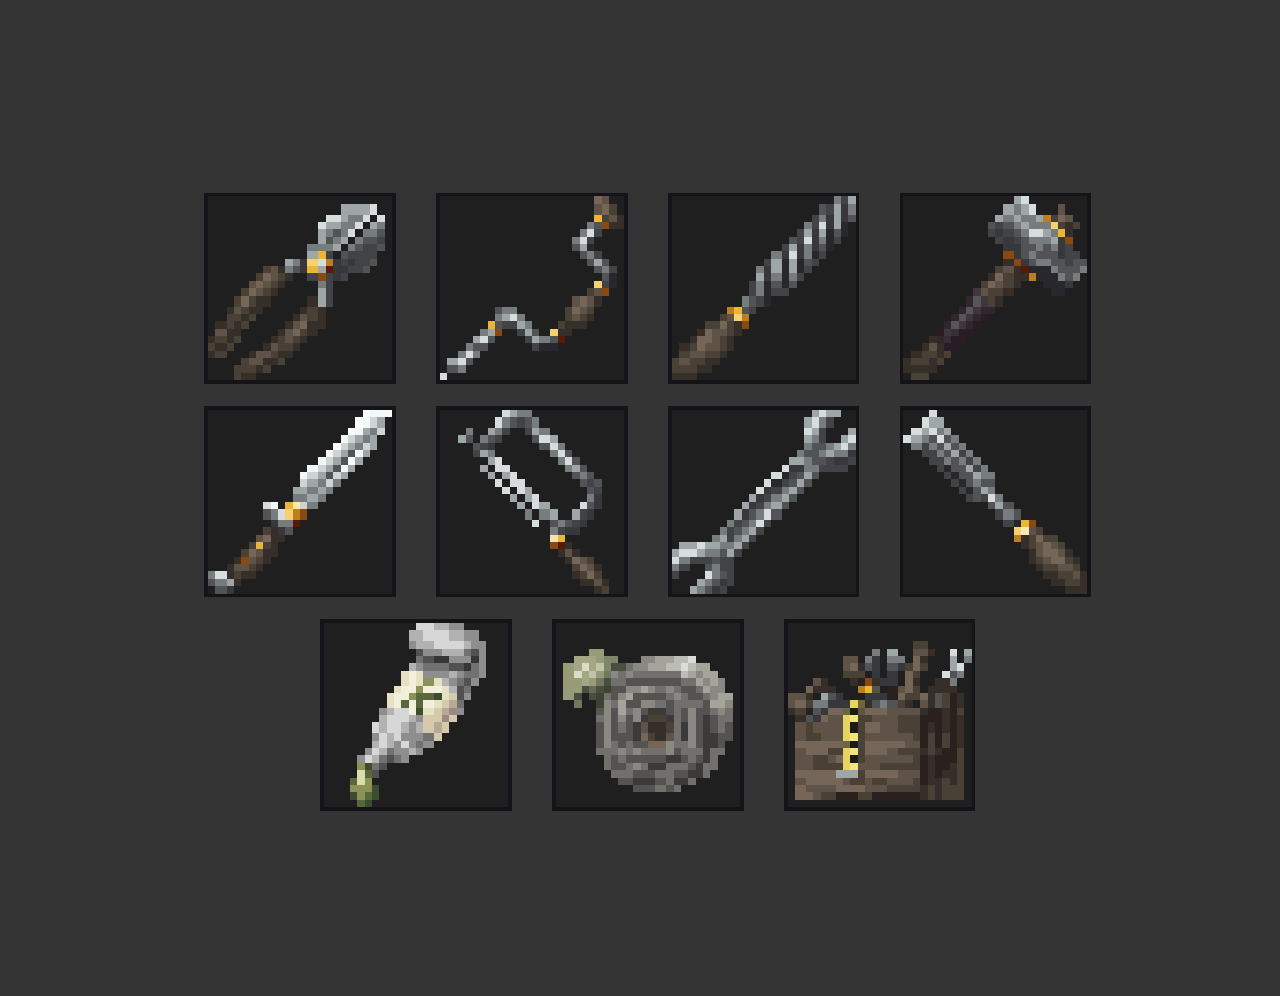
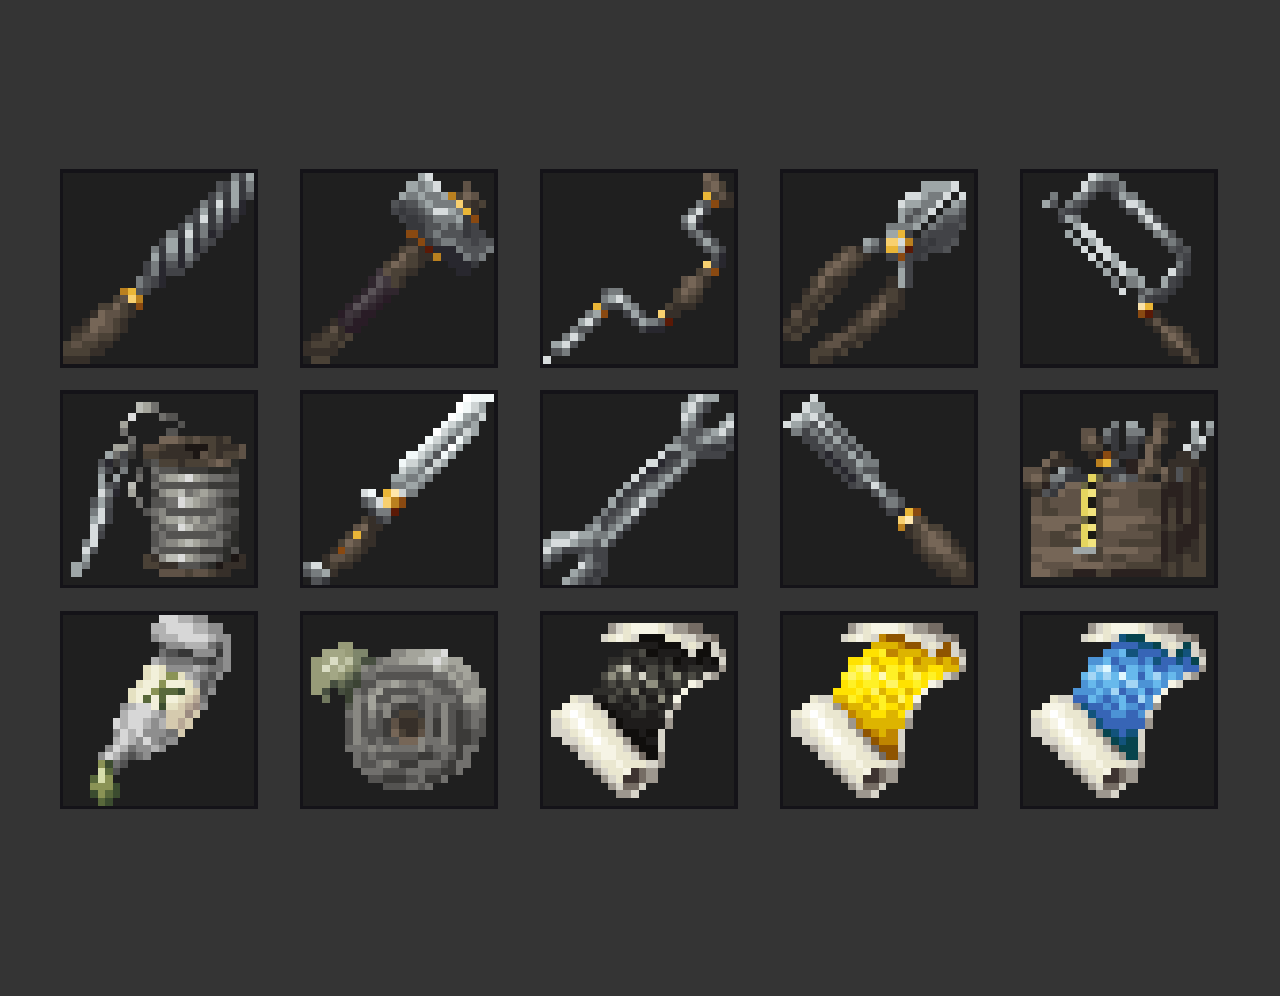
add needle and thread

Changed region(s): [[0.0312, 0.1556, 0.9688, 0.8092], [0.0625, 0.1556, 0.2188, 0.3112], [0.9375, 0.5602, 0.9688, 0.5914]]

diff --git a/.dev/TO DO.md b/.dev/TO DO.md
@@ -5,7 +5,7 @@ All of these features will be included in the mod in some form at some point, bu
 ## Content
 
  - [x] A generic 'Saw' tool; needs to be able to cut both wood and metal, so probably should look like a hacksaw or tenon saw
- - [ ] 'Needle and Thread' consumable for sewing things like bags and clothing. 30, 50 uses?
+ - [x] 'Needle and Thread' consumable for sewing things like bags and clothing. 30, 50 uses?
  - [x] 'Chisel' tool for shaping stone and wood and crafting decorative variants of nodes
  - [x] Options to disable all tools & consumables individually, by category, or all together
 
